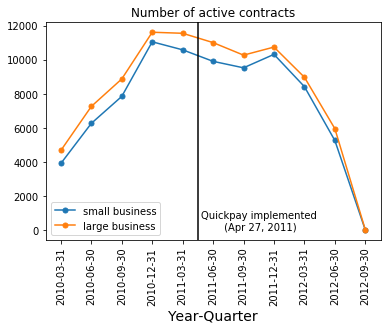
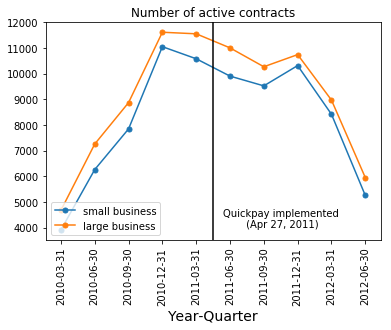
data truncated at June 30, 2012 instead of July 1, 2012 -- because quarter ends on June 30. Also, added code for considering only time trend and its interaction with after-quickpay variable

diff --git a/codes/qp_parallel_trends.py b/codes/qp_parallel_trends.py
@@ -73,6 +73,11 @@ df_sorted[['action_date_year_quarter','last_reported_start_date','last_reported_
 
 df_sorted["winsorized_delay"]=winsorize(df_sorted.change_in_deadline,limits=0.001)
 
+df_sorted=df_sorted[df_sorted.action_date_year_quarter<df_sorted.action_date_year_quarter.max()]
+# restrict to quarter ending June 30, 2012
+# data is truncated at July 1, 2012 -- 
+# so quarter ending Sept 30, 2012 will only have values as of July 1, 2012
+
 small_business=df_sorted.query("business_type=='S'")
 large_business=df_sorted.query("business_type=='O'")
 
@@ -96,7 +101,7 @@ plt.plot(large_business_group.action_date_year_quarter_.astype(str),\
          marker='o', markersize=5)
 plt.legend(loc="upper left")
 plt.axvline(x=5.5, color="black")
-text(7.5, 1.5,'Quickpay implemented\n (Apr 27, 2011)',
+text(7.5, 20,'Quickpay implemented\n (Apr 27, 2011)',
      horizontalalignment='center')
 plt.xlabel("Year-Quarter",fontsize=14)
 #plt.axvline(x=6)
@@ -137,7 +142,7 @@ plt.plot(lb.action_date_year_quarter_.astype(str),\
          lb.winsorized_delay_count,label="large business",\
          marker='o', markersize=5)
 plt.axvline(x=4.5,color="black")
-text(6.5, 1.5,'Quickpay implemented\n (Apr 27, 2011)',
+text(6.5, 4000,'Quickpay implemented\n (Apr 27, 2011)',
      horizontalalignment='center')
 plt.legend(loc="lower left")
 plt.xlabel("Year-Quarter",fontsize=14)
@@ -157,7 +162,7 @@ plt.plot(large_business_group.action_date_year_quarter_.astype(str),\
          marker='o', markersize=5)
 plt.legend(loc="upper left")
 plt.axvline(x=5.5, color="black")
-text(7.5, 1.5,'Quickpay implemented\n (Apr 27, 2011)',
+text(7.5, 11.5,'Quickpay implemented\n (Apr 27, 2011)',
      horizontalalignment='center')
 plt.xlabel("Year-Quarter",fontsize=14)
 savefig('/Users/vibhutidhingra/Desktop/research/Git:Github/qp_data_and_code/img/trends_raw.png', bbox_inches='tight')
